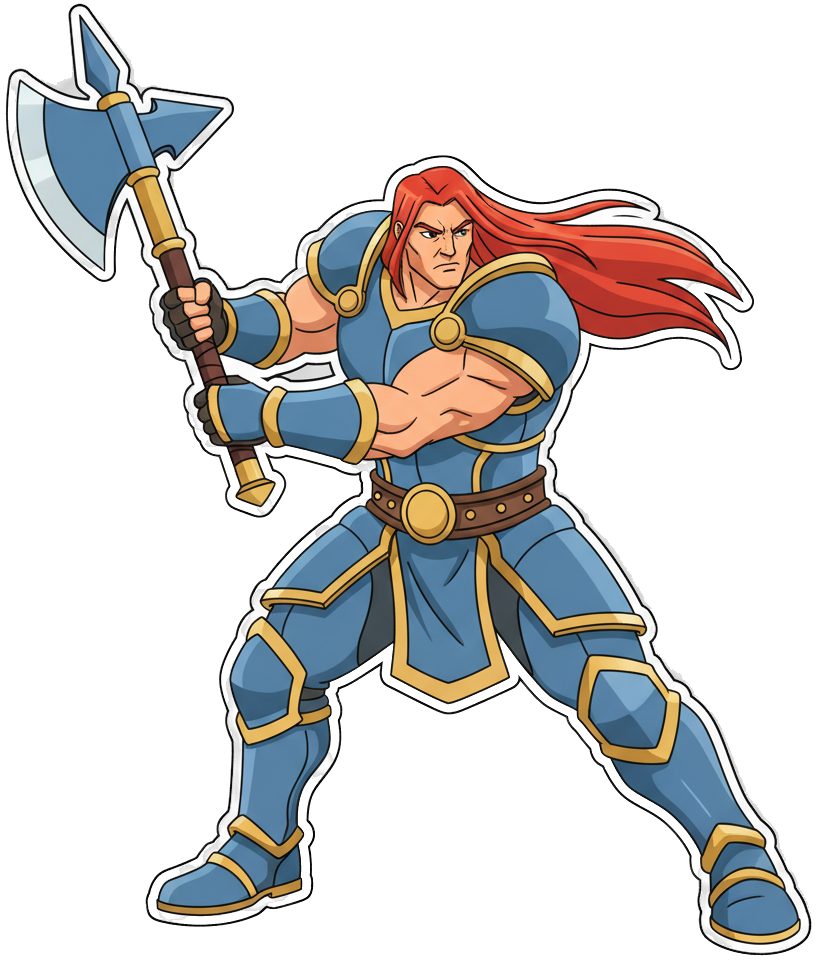
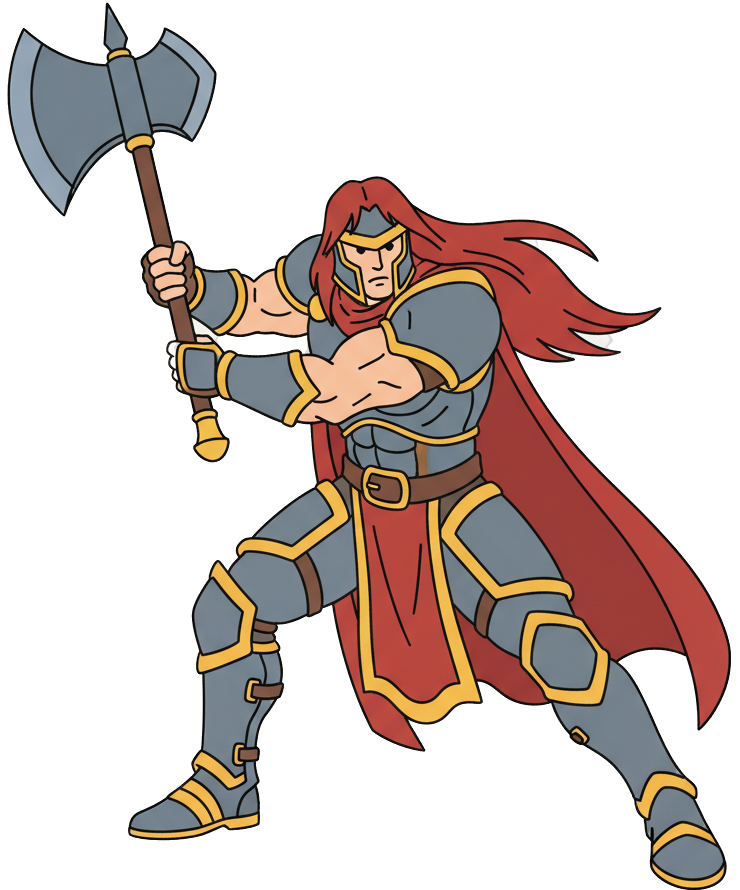
v5: That is closer please make sure our antialias outline is solid black and we want the image to be solid color no shadow/shading in generation (As the algorithm to swap colors isnt able to handle that currently)

diff --git a/main.js b/main.js
@@ -248,21 +248,20 @@ const fragmentShader = `
             }
         }
         
-        // Preserve original lightness, but use the new color's hue and saturation.
-        float originalLightness = getLuminance(texColor.rgb);
-
+        // With a flat-colored source image, we no longer need to preserve lightness.
+        // We can just swap the color directly.
         if (min_idx == 0) { // Face/Skin
-            if (min_dist < uThresholdFace * 0.1) finalColor = uColorFace * originalLightness;
+            if (min_dist < uThresholdFace * 0.1) finalColor = uColorFace;
         } else if (min_idx == 1) { // Armour/Weapon
-            if (min_dist < uThresholdArmour * 0.1) finalColor = uColorArmour * originalLightness;
+            if (min_dist < uThresholdArmour * 0.1) finalColor = uColorArmour;
         } else if (min_idx == 2) { // Trim
-            if (min_dist < uThresholdTrim * 0.1) finalColor = uColorTrim * originalLightness;
+            if (min_dist < uThresholdTrim * 0.1) finalColor = uColorTrim;
         } else if (min_idx == 3) { // Hair
-            if (min_dist < uThresholdHair * 0.08) finalColor = uColorHair * originalLightness;
+            if (min_dist < uThresholdHair * 0.08) finalColor = uColorHair;
         } else if (min_idx == 4) { // Outline
             // Special handling for outlines - check lightness/saturation
             if (texHSL.z < (0.2 * uThresholdOutline) || texHSL.s < (0.1 * uThresholdOutline)) {
-                finalColor = uColorOutline * originalLightness;
+                finalColor = uColorOutline;
             }
         }
 
